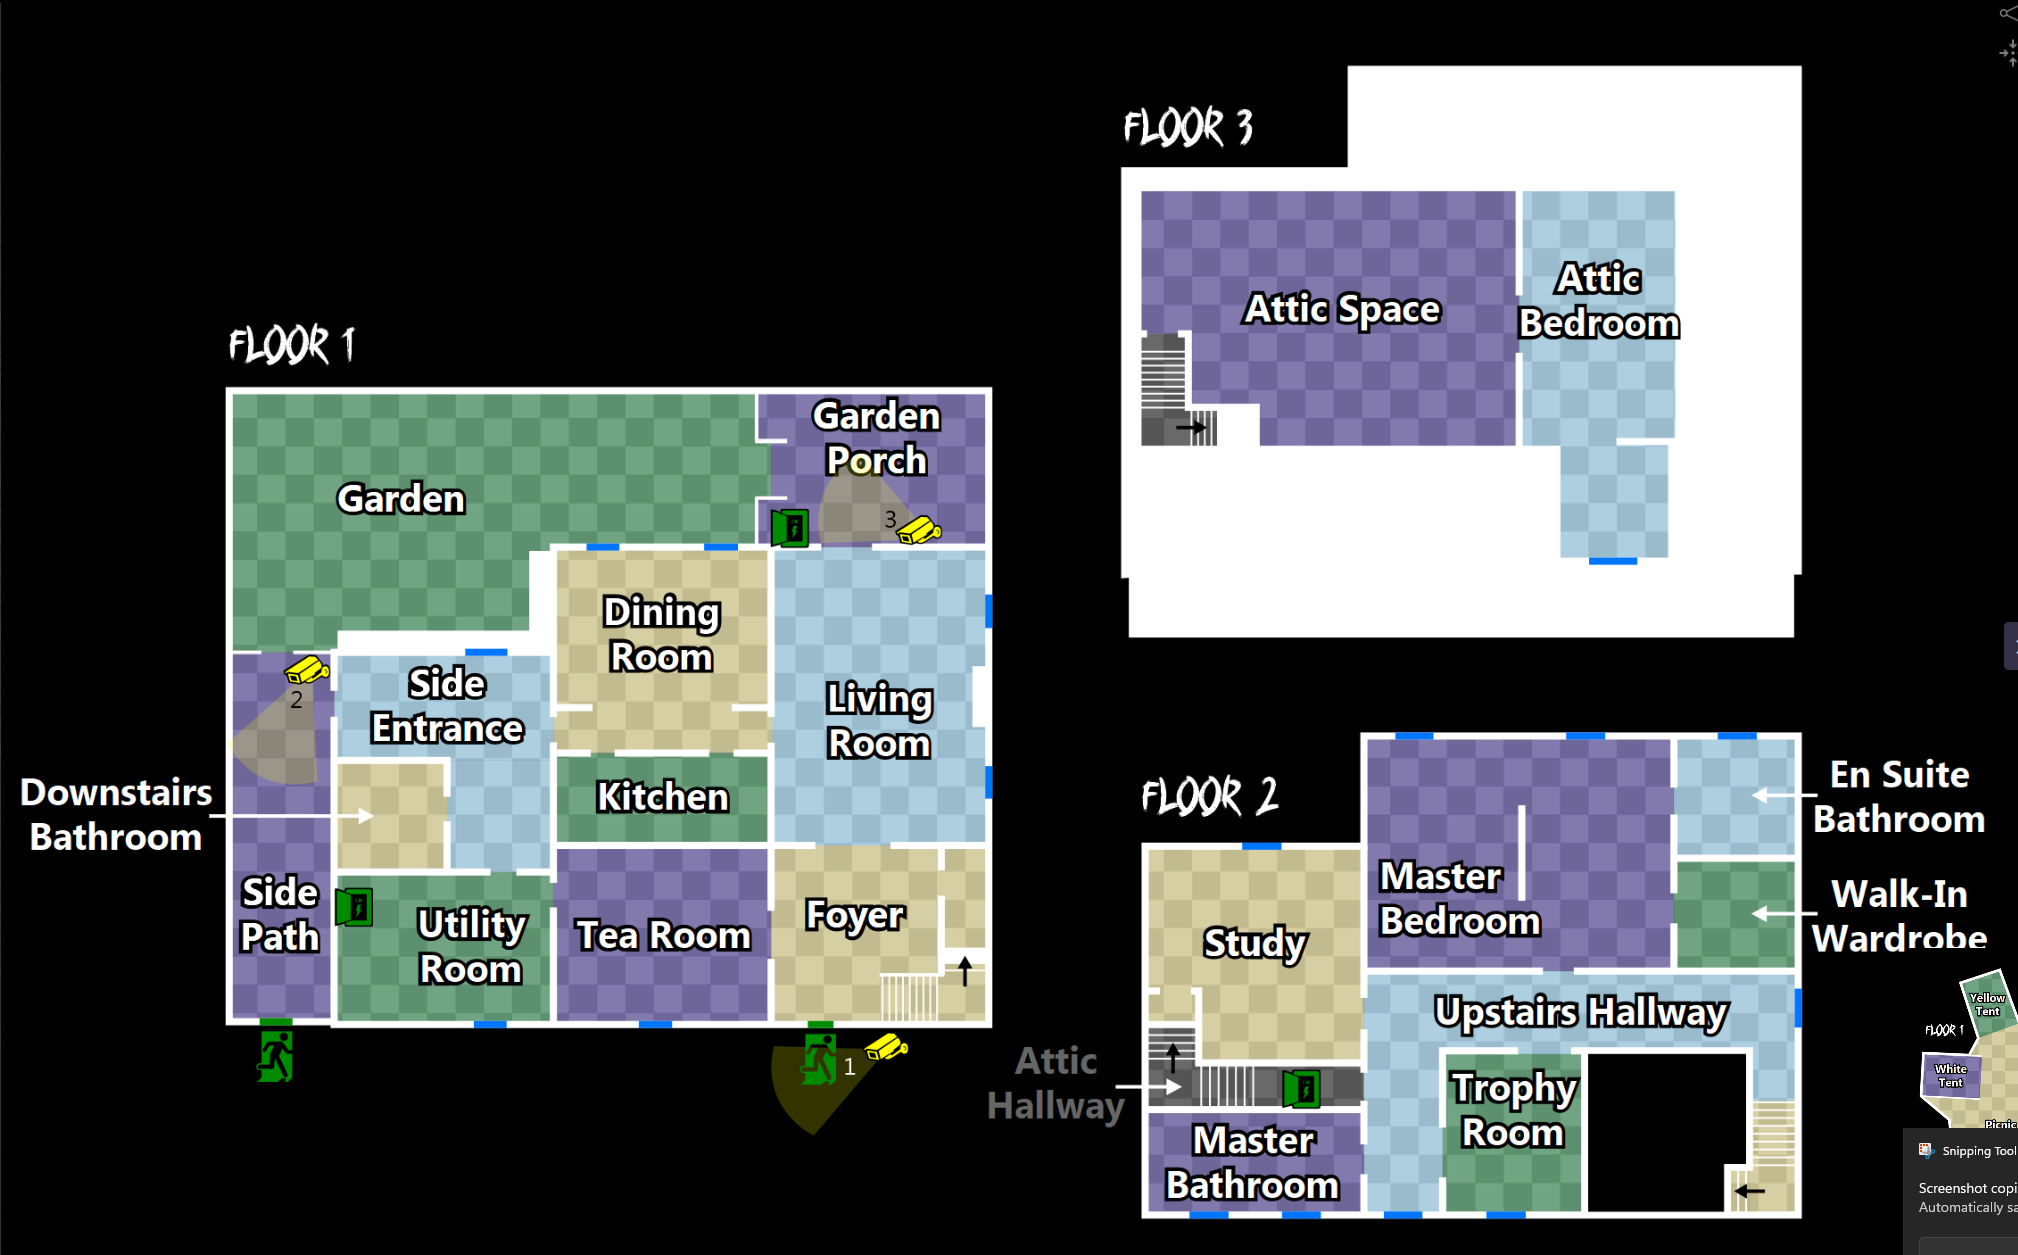
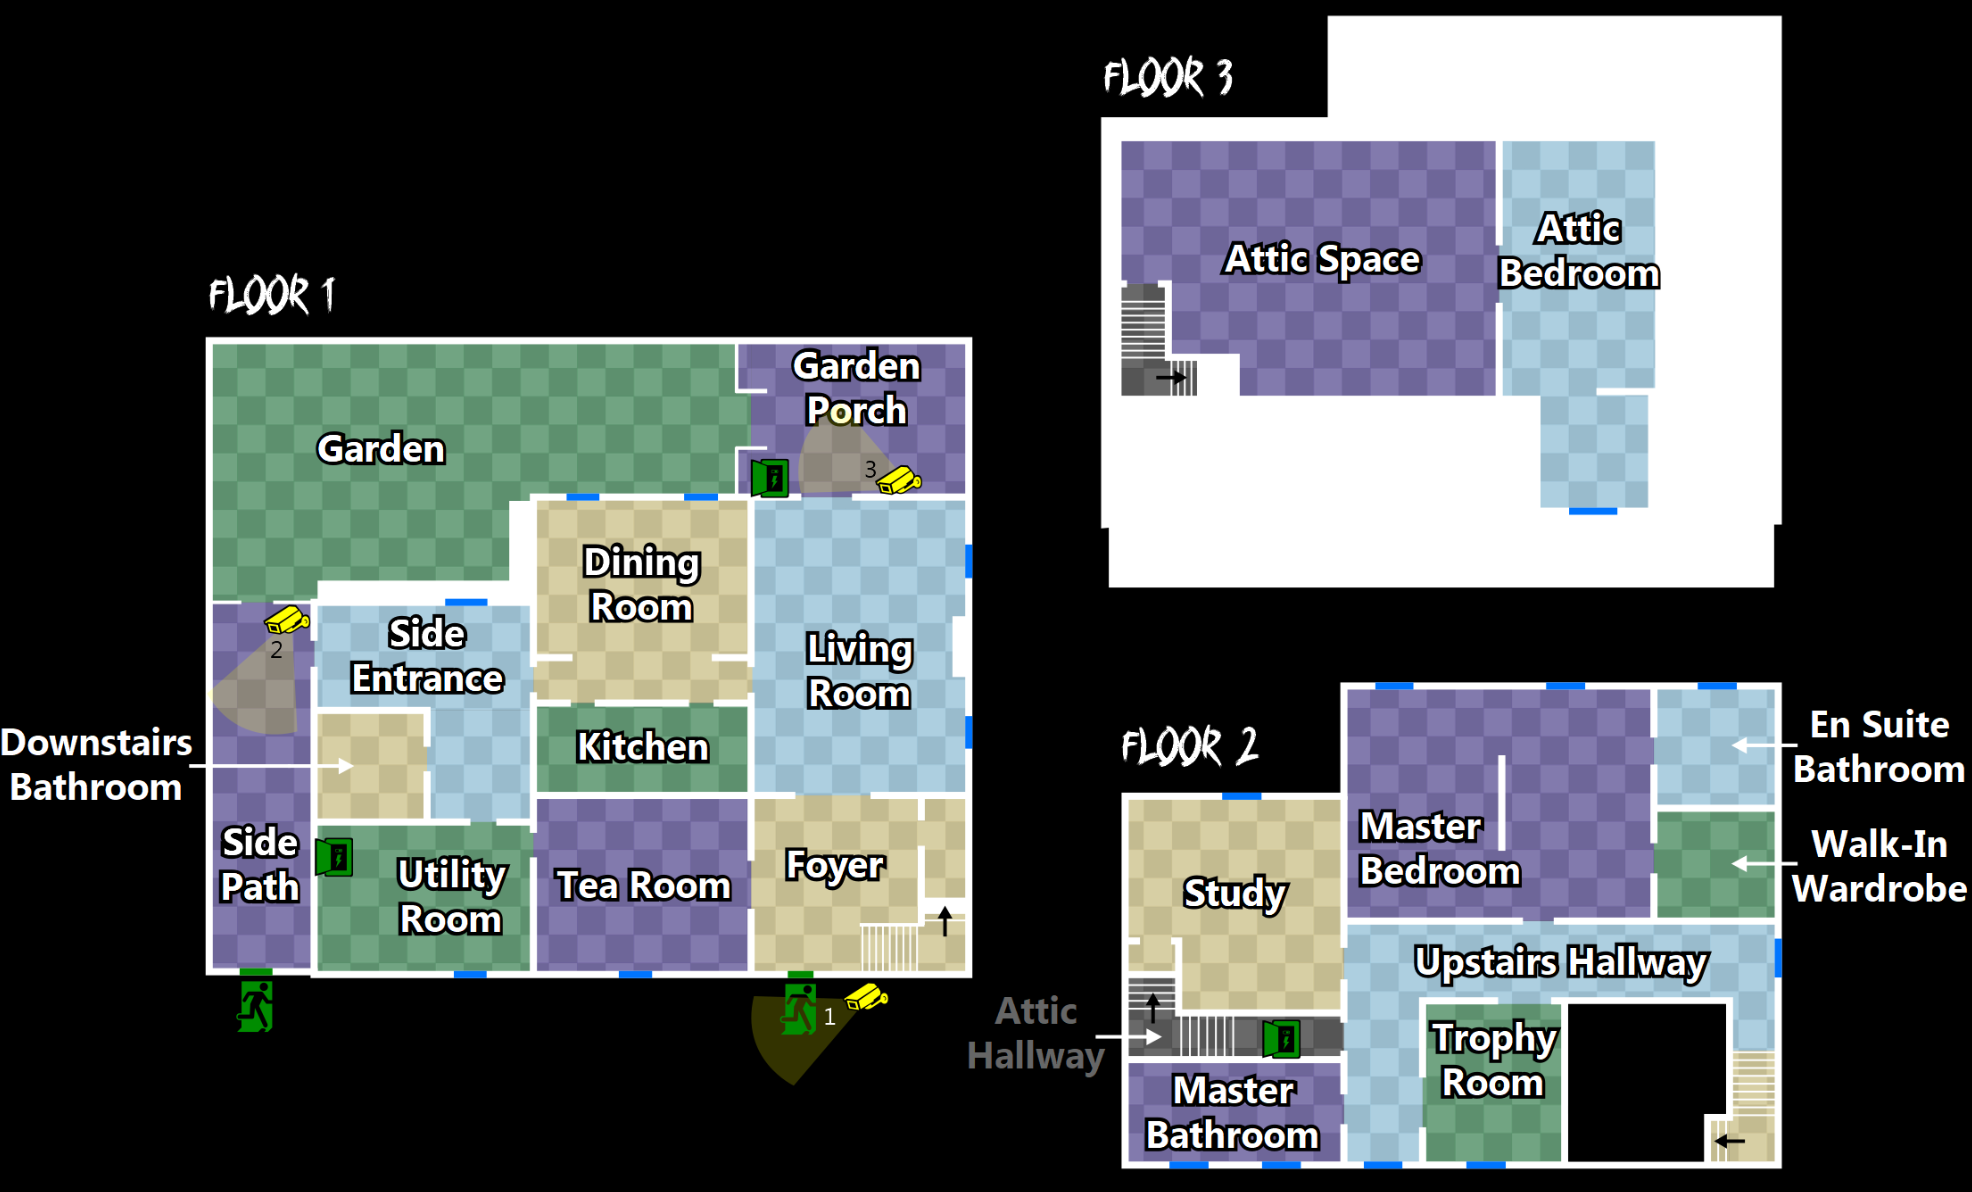
zoomable map

diff --git a/main.js b/main.js
@@ -451,6 +451,29 @@ document.querySelectorAll('.tape-strip').forEach(tape => {
 const mapSelector = document.getElementById('map-selector');
 const mapImage = document.getElementById('map-image');
 
+// Create lightbox overlay for the map
+const mapOverlay = document.createElement('div');
+mapOverlay.className = 'map-overlay';
+mapOverlay.id = 'map-overlay';
+const mapOverlayImg = document.createElement('img');
+mapOverlayImg.id = 'map-overlay-img';
+mapOverlay.appendChild(mapOverlayImg);
+document.body.appendChild(mapOverlay);
+
+if (mapImage) {
+    mapImage.style.cursor = 'zoom-in';
+    mapImage.addEventListener('click', () => {
+        mapOverlayImg.src = mapImage.src;
+        mapOverlay.classList.add('active');
+        if (typeof haptics !== 'undefined' && haptics) haptics.trigger('nudge');
+    });
+
+    mapOverlay.addEventListener('click', () => {
+        mapOverlay.classList.remove('active');
+        if (typeof haptics !== 'undefined' && haptics) haptics.trigger('nudge');
+    });
+}
+
 if (mapSelector && mapImage) {
     mapSelector.addEventListener('change', (e) => {
         if (typeof haptics !== 'undefined' && haptics) haptics.trigger('nudge');

diff --git a/style.css b/style.css
@@ -1080,3 +1080,45 @@ body.dark-mode .dark-toggle-track::after {
 .dark-toggle input:checked~.dark-toggle-track .dark-toggle-icon.moon {
     opacity: 1;
 }
+
+/* ── Map Lightbox Overlay ── */
+.map-overlay {
+    position: fixed;
+    top: 0;
+    left: 0;
+    width: 100vw;
+    height: 100vh;
+    background: rgba(0, 0, 0, 0.85);
+    z-index: 10000;
+    display: flex;
+    justify-content: center;
+    align-items: center;
+    opacity: 0;
+    pointer-events: none;
+    transition: opacity 0.3s ease;
+    cursor: zoom-out;
+}
+
+.map-overlay.active {
+    opacity: 1;
+    pointer-events: auto;
+}
+
+.map-overlay img {
+    max-width: 90%;
+    max-height: 90vh;
+    object-fit: contain;
+    border: 10px solid #fdfdfd;
+    border-radius: 4px;
+    box-shadow: 0 10px 30px rgba(0, 0, 0, 0.8);
+    transform: scale(0.9);
+    transition: transform 0.3s cubic-bezier(0.175, 0.885, 0.32, 1.275);
+}
+
+.map-overlay.active img {
+    transform: scale(1);
+}
+
+body.dark-mode .map-overlay img {
+    border-color: var(--paper-bg);
+}
